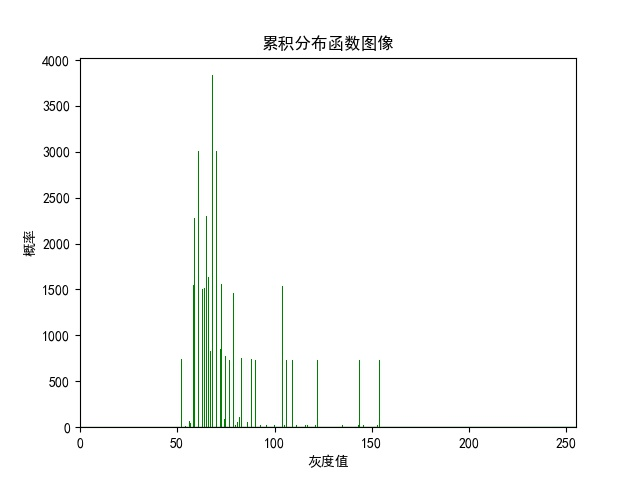
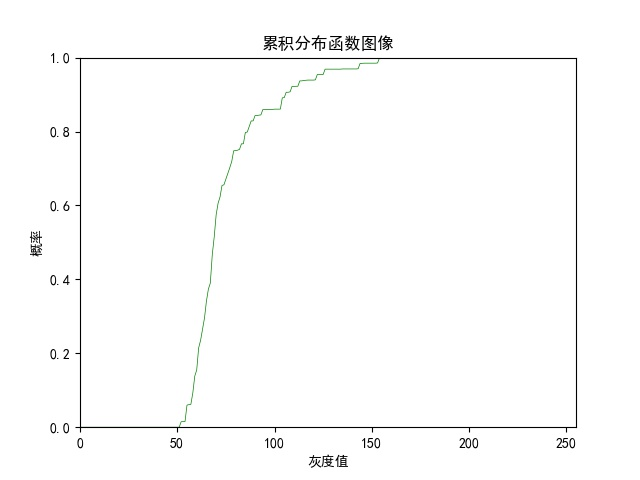
"映射完成"

diff --git a/Histogram_equalization.py b/Histogram_equalization.py
@@ -38,6 +38,7 @@ class HistogramEqualization(object):
         # 绘制直方图
         x = np.asarray(self.OriginalImg)
         x.resize((height * width))
+        plt.figure()
         plt.hist(x, bins=256, color='green')
         plt.xlabel('灰度值')
         plt.ylabel('频数')
@@ -61,15 +62,46 @@ class HistogramEqualization(object):
                 self.Cumulative_distribution[0][i] = 1.0
             else:
                 self.Cumulative_distribution[0][i] = self.Histogram[0][i] / N + \
-                                                Cumulative_distribution[0][i - 1]
+                                                     self.Cumulative_distribution[0][i - 1]
         # 绘制图像
         x = list(range(256))
+        plt.figure()
         plt.xlim(0, 255)
+        plt.ylim(0, 1)
         plt.xlabel('灰度值')
         plt.ylabel('概率')
         plt.title('累积分布函数图像')
         plt.plot(x, self.Cumulative_distribution[0, :], color='green', linewidth=0.5)
         plt.savefig('./result/cdf.jpg')
+
+    def equalization(self):
+        """
+        利用计算得到的累积分布函数对原始图像像素进行均衡化，得到映射函数
+        :return: None
+        """
+        # 累积分布函数计算完成后，进行I和c的缩放，把值域缩放到0~255的范围之内
+        self.Cumulative_distribution = self.Cumulative_distribution * 255
+        height = self.OriginalImg.shape[0]
+        width = self.OriginalImg.shape[1]
+        # 对均衡后的图像进行平滑处理,使用线性混合
+        f = np.zeros((1, 256), dtype=np.int)  # 映射函数
+        alpha = 1  # 混合参数
+        for i in range(256):
+            f[0][i] = alpha * self.Cumulative_distribution[0][i] + (1 - alpha) * i
+        self.f = f.astype(np.int)
+
+        # f为得到的映射，据此生成新的图像
+        self.NewImg = np.zeros((self.OriginalImg.shape))
+        self.NewImg = self.OriginalImg.copy()
+        for row in range(height):
+            for col in range(width):
+                Newvalue = f[0][self.NewImg[row][col]]
+                self.NewImg[row][col] = Newvalue
+        cv2.imwrite('./result/new_img.jpg', self.NewImg)
+
+    def draw_new_histogram(self):
+        """绘制新图片的直方图"""
+
 
     def Histogram_equalizing(self):
         # 1.计算像素点，得到直方图

diff --git a/main.py b/main.py
@@ -5,3 +5,6 @@ if __name__ == '__main__':
     HE.resize((224, 224))  # 归一化图像尺寸
     HE.draw_histogram()  # 画原始图像直方图
     HE.draw_cd_f()  # 画原始图像累积分布函数
+    HE.equalization() # 利用以上计算得到的累积分布函数对图像进行均衡化，得到映射函数f,并使用映射函数f对原始图像进行均衡化，得到新的图像
+
+
